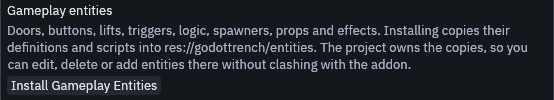
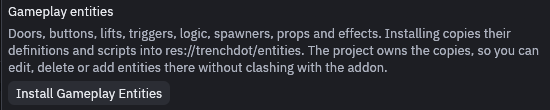
Retake the setup and Restricted Mode screenshots under the new name

Changed region(s): [[0.0, 0.0, 1.0, 1.0]]

diff --git a/docs/godot/project-setup.md b/docs/godot/project-setup.md
@@ -79,7 +79,7 @@ there clashes with it, and an addon update does not undo it.
     The window should now say "Installed in res://trenchdot/entities" in green, and the editor offers the new
     entities right away.
 
-    ![The Gameplay entities section after installing, saying it added 85 files to res://trenchdot/entities and to restart Godot if it has the project open](../assets/project-setup/setup-gameplay-installed.png)
+    ![The Gameplay entities section after installing, saying it added 86 files to res://trenchdot/entities and to restart Godot if it has the project open](../assets/project-setup/setup-gameplay-installed.png)
 
     When a Godot editor has the project open, TrenchDot asks it to pick up the new files, and the window says so. A
     scene in [live mode](live.md#when-live-mode-rebuilds-the-whole-map) then rebuilds by itself. Press **Build Map**
